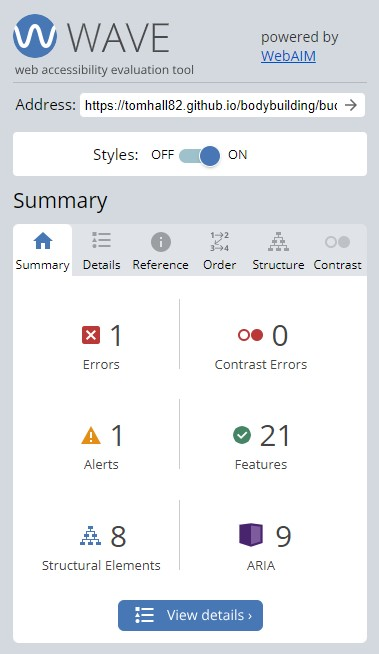
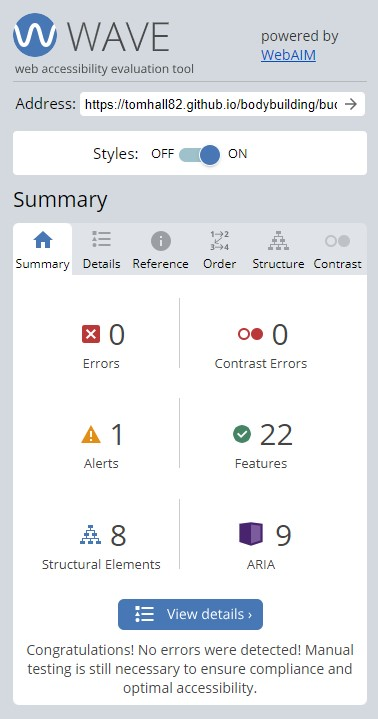
spelling and grammar corrections

diff --git a/README.md b/README.md
@@ -1,6 +1,6 @@
 # Bodybuilding
 
-This website is to offer an insite to what bodybuilding is and to help beginners and seasoned trainers find their next training buddy.
+This website is to offer an insight to what bodybuilding is and to help beginners and seasoned trainers find their next training buddy.
 
 ![bodybuilding-responsive-screenshots-from-am-i-responsive](assets/docs/bodybuilding-responsive-screenshots.jpg)
 
@@ -112,17 +112,17 @@ The website is comprised of three pages, all of which are accessible from the na
 
   - A link for the page currently on in the bodybuilding title to enable the user to quickly get back to the top of the page.
 
-  - A footer which contains social media icon links to facebook, X, instagram & youtube.
+  - A footer which contains social media icon links to Facebook, X, Instagram & YouTube.
 
   ![footer-image](assets/docs/footer.jpg)
 
 - ###### Home page
 
-  - About section. This section gives an overview on what bodybuilding is, along with an insperational quote from Arnold Schwarzenegger.
+  - About section. This section gives an overview on what bodybuilding is, along with an inspirational quote from Arnold Schwarzenegger.
 
   ![home-page-image](assets/docs/home-page.jpg)
 
-  - Competition section. This section discusses the competiton aspect of bodybuilding along with examples of judging criteria. There is also a link to The History of Bodybuilding included in the text.
+  - Competition section. This section discusses the competition aspect of bodybuilding along with examples of judging criteria. There is also a link to The History of Bodybuilding included in the text.
 
   - Diet section. This section introduces the user to diet and supplementation in bodybuilding.
 
@@ -150,7 +150,7 @@ The website is comprised of three pages, all of which are accessible from the na
 
   ![form-image](assets/docs/form.jpg)
 
-  - The user can enter both their personal details along with training preferences to find their training buddy!.
+  - The user can enter both their personal details along with training preferences to find their training buddy!
 
 - ###### 404 Page not found
 
@@ -168,7 +168,7 @@ The website is comprised of three pages, all of which are accessible from the na
   - Diet & Nutrition page. A page to further explore the expansive subject of diet, nutrition and supplementation.
   - Training Tips & Programmes page. A page with sample training exercises, training splits and programmes.
   - Competition / Events page. A page showing upcoming competitions, events, appearances, exhibitions etc.
-  - FAQ page. A page to answe commonly asked questions for new and experienced bodybuilders alike.
+  - FAQ page. A page to answer commonly asked questions for new and experienced bodybuilders alike.
 
 ## Accessibility
 
@@ -245,11 +245,11 @@ Click on the code button, select whether you would like to clone with HTTPS, SSH
 Open the terminal in your code editor and change the current working directory to the location you want to use for the cloned directory.
 Type 'git clone' into the terminal and then paste the link you copied in step 3. Press enter.
 
-The live link can be foudn here - [https://tomhall82.github.io/bodybuilding/](https://tomhall82.github.io/bodybuilding/)
+The live link can be found here - [https://tomhall82.github.io/bodybuilding/](https://tomhall82.github.io/bodybuilding/)
 
 ## Testing
 
-Since deployment the site has been continually tested on ios and android devices alongside chrome, edge and firefox browsers.
+Since deployment the site has been continually tested on iOS and android devices alongside chrome, edge and Firefox browsers.
 
 On both mobile and tablet, the site has been tested in both portrait and landscape orientations. The desktop tests have been conducted in various size windows and dynamically to ensure responsiveness.
 
@@ -300,9 +300,7 @@ Mobile
 
 ### [Wave](https://wave.webaim.org/)
 
-To test accessibility, Wave was used. All came back in a positive light with the exception of one error found across all pages (below). The error is for an empty form label which has been caused by the mechanics used in the dropdown navigation menu. To reslove this I have tried using various methods found through a google search including attempting to add text to the label with a hidden class as well as moving the burger icon into the label field. Not of these methods proved successful. As the error doesn't take away from the functionality of the websiteor introduce any immediately apparent barriers I have decided to leave it.
-
-![wave error](assets/docs/testing/wave/wave-error.jpg)
+To test accessibility, Wave was used. All came back in a positive light except for one error found on the thank-you page which is detailed below.
 
 ##### index.html
 
@@ -316,6 +314,16 @@ To test accessibility, Wave was used. All came back in a positive light with the
 
 ![buddy.html wave results](assets/docs/testing/wave/wave-buddy.jpg)
 
+##### 404.html
+
+![buddy.html wave results](assets/docs/testing/wave/wave-404.jpg)
+
+##### thank-you.html
+
+![buddy.html wave results](assets/docs/testing/wave/wave-thank-you.jpg)
+
+Error showing on the thank you page (shown below) is due to the automatic redirect. As this is a feature of the page and does not take anything away from the page or the experience, I am not looking to resolve this.
+
 ### Solved Bugs
 
 1. Home link header not changing colour. Found due to it being a link, changed colour directly initially but the realized I could set “color: inherit;” like suggested in the modules.
@@ -323,9 +331,10 @@ To test accessibility, Wave was used. All came back in a positive light with the
 1. H2 background wasn’t being opaque due to being doubled up on h2 element and introduction class. Amended class structure(s) which resolved the issue.
 1. History page was showing wrong when in landscape mode. The image would move in such a way to not longer look right. Fixed by changing center to top: 'background: url("../images/bodybuilding-over-past-100-years.jpg") no-repeat top center/cover;'
 1. H3 titles were obscuring the first line of the following paragraph when using the link to jump to them. After trying moving the heading around, changing sections to divs, wrapping the whole section in a div, nothing was working. Issue was solved by added an additional '<br>' to the top of the first paragraph in each section.
-1. Had an issue where all radio buttons were selecting. This is due to the fact I had missed out the value attribute and miss-labeled the name attribute.
-1. While testing on ios devices, the deployed site has a white line approx. 2px high below the header on each page. This does not show on any other device nor when using developer tools on the deployed site. This has been solved by changing the background colour back to the same blue as the header with the main as white. This has elliminated the line.
+1. Had an issue where all radio buttons were selecting. This is due to the fact I had missed out the value attribute and miss-labelled the name attribute. Relevant changes made which resolved the error.
+1. While testing on iOS devices, the deployed site has a white line approx. 2px high below the header on each page. This does not show on any other device nor when using developer tools on the deployed site. This has been solved by changing the background colour back to the same blue as the header with the main as white. This has eliminated the line.
 1. After I had changed the image file types to webp and compressed them, some images were not showing on the deployed site even though they were present on the previews and the file paths were correct. This was solved by removing the images and adding again.
+1. Wave generated an error due to an empty form label. This was caused by the mechanics used in the dropdown navigation menu. This was resolved by adding "nav" text into the label then adding a 'display: none;' rule to the child of a label within the header ('header > label > em {display: none;}).
 
 ### Known Bugs
 
